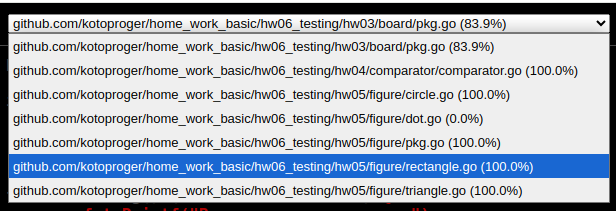
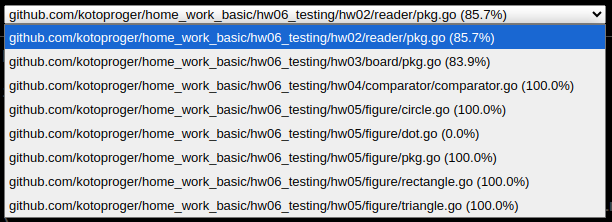
tests

diff --git a/hw06_testing/hw02/reader/pkg_test.go b/hw06_testing/hw02/reader/pkg_test.go
@@ -1,0 +1,70 @@
+package reader
+
+import (
+	"fmt"
+	"os"
+	"testing"
+
+	types "github.com/kotoproger/home_work_basic/hw06_testing/hw02/types"
+	"github.com/stretchr/testify/assert"
+)
+
+func TestReadJSON(t *testing.T) {
+	testCases := []struct {
+		name        string
+		jsonContent string
+		isError     bool
+		data        []types.Employee
+	}{
+		{"file not exists", "", true, nil},
+		{"file content is invalid", "some not json content", true, nil},
+		{
+			"file is valid",
+			"[{\"userId\":10,\"age\":25,\"name\":\"Rob\",\"departmentId\":3}," +
+				"{\"userId\":11,\"age\":30,\"name\":\"George\",\"departmentId\":2}]",
+			false,
+			[]types.Employee{
+				{UserID: 10, Age: 25, Name: "Rob", DepartmentID: 3},
+				{UserID: 11, Age: 30, Name: "George", DepartmentID: 2},
+			},
+		},
+	}
+
+	for _, tc := range testCases {
+		t.Run(tc.name, func(t *testing.T) {
+			var fileName string
+			var err error
+			if tc.jsonContent != "" {
+				fileName, err = createTempFile(tc.jsonContent)
+				defer os.Remove(fileName)
+				assert.Equal(t, nil, err, "erro on creating temporary file")
+			} else {
+				fileName = "some random name"
+			}
+
+			list, err := ReadJSON(fileName)
+
+			assert.Equal(t, tc.data, list)
+			assert.Equal(t, tc.isError, err != nil)
+		})
+	}
+}
+
+func createTempFile(content string) (string, error) {
+	f, err := os.CreateTemp("", "example")
+	if err != nil {
+		return "", fmt.Errorf("can not create temporary file: %w", err)
+	}
+
+	_, err = f.Write([]byte(content))
+	if err != nil {
+		return "", fmt.Errorf("can not write to temporary file: %w", err)
+	}
+
+	err = f.Close()
+	if err != nil {
+		return "", fmt.Errorf("can not close temporary file: %w", err)
+	}
+
+	return f.Name(), nil
+}

diff --git a/hw06_testing/hw02/reader/pkg.go b/hw06_testing/hw02/reader/pkg.go
@@ -6,7 +6,7 @@ import (
 	"io"
 	"os"
 
-	types "github.com/kotoproger/home_work_basic/hw02_fix_app/types"
+	types "github.com/kotoproger/home_work_basic/hw06_testing/hw02/types"
 )
 
 func ReadJSON(filePath string) ([]types.Employee, error) {
